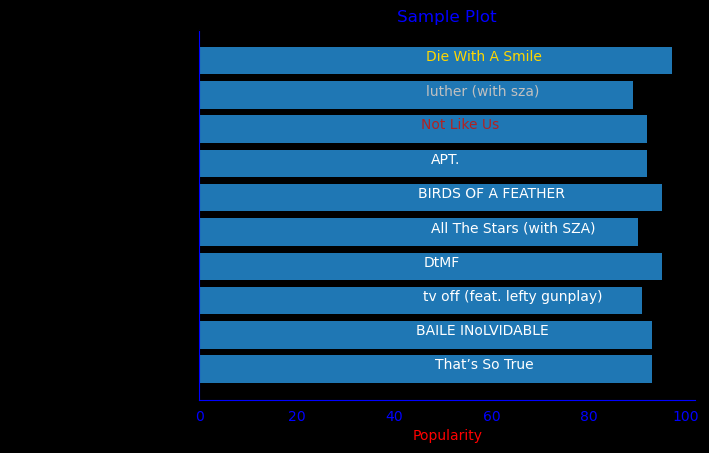
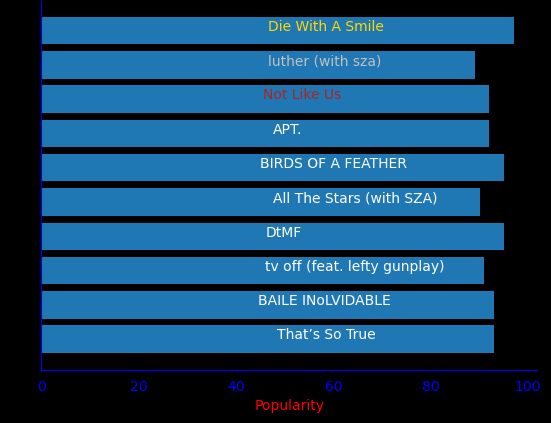
feat: added sai's graph

diff --git a/lib/stats.dart b/lib/stats.dart
@@ -1,5 +1,5 @@
 import 'package:flutter/material.dart';
-import 'graph.dart';  // Import the GraphPlaceholder widget
+import 'graph.dart'; // Import the GraphPlaceholder widget
 
 class StatsPage extends StatelessWidget {
   const StatsPage({super.key});
@@ -11,14 +11,19 @@ class StatsPage extends StatelessWidget {
       appBar: AppBar(
         backgroundColor: Colors.black,
         title: Text(
-          "Stats", 
-          style: TextStyle(fontSize: 22, fontWeight: FontWeight.bold, color: Colors.white),
+          "Stats",
+          style: TextStyle(
+            fontSize: 22,
+            fontWeight: FontWeight.bold,
+            color: Colors.white,
+          ),
         ),
       ),
       body: Padding(
         padding: const EdgeInsets.all(16.0), // Padding for some spacing
         child: Column(
-          crossAxisAlignment: CrossAxisAlignment.start, // Align items to the left
+          crossAxisAlignment:
+              CrossAxisAlignment.start, // Align items to the left
           children: [
             Text(
               "Weekly Global Stats", // Text displayed at the top
@@ -29,12 +34,12 @@ class StatsPage extends StatelessWidget {
               ),
             ),
             SizedBox(height: 30), // Space between title and graph
-
             // Add the GraphPlaceholder widget here
-            GraphPlaceholder(), // No need for the image path anymore
+            Image.asset("figure.png", width: 551, height: 423),
           ],
         ),
       ),
     );
   }
 }
+
